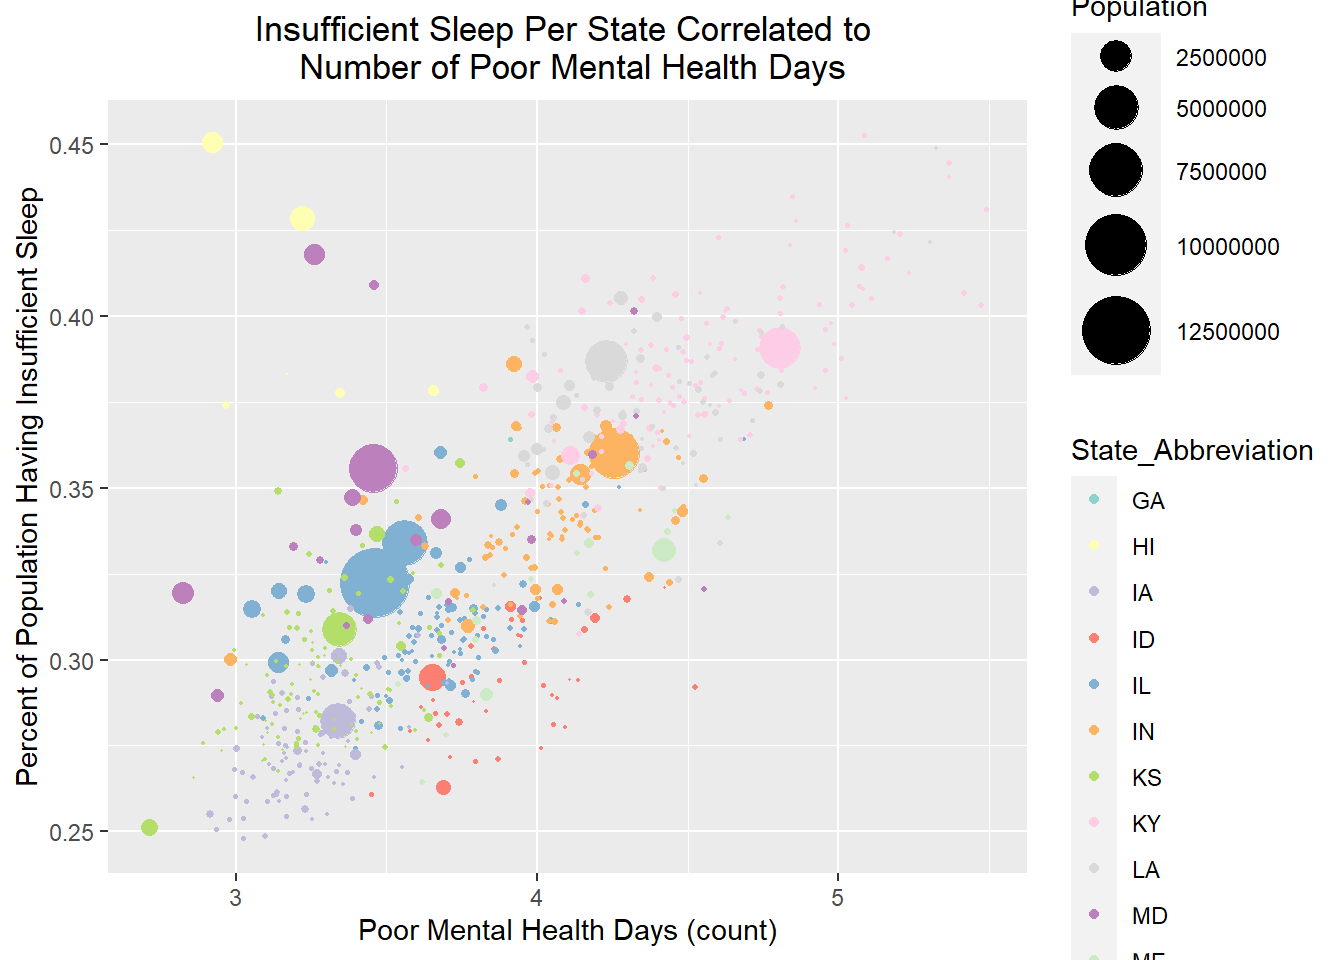
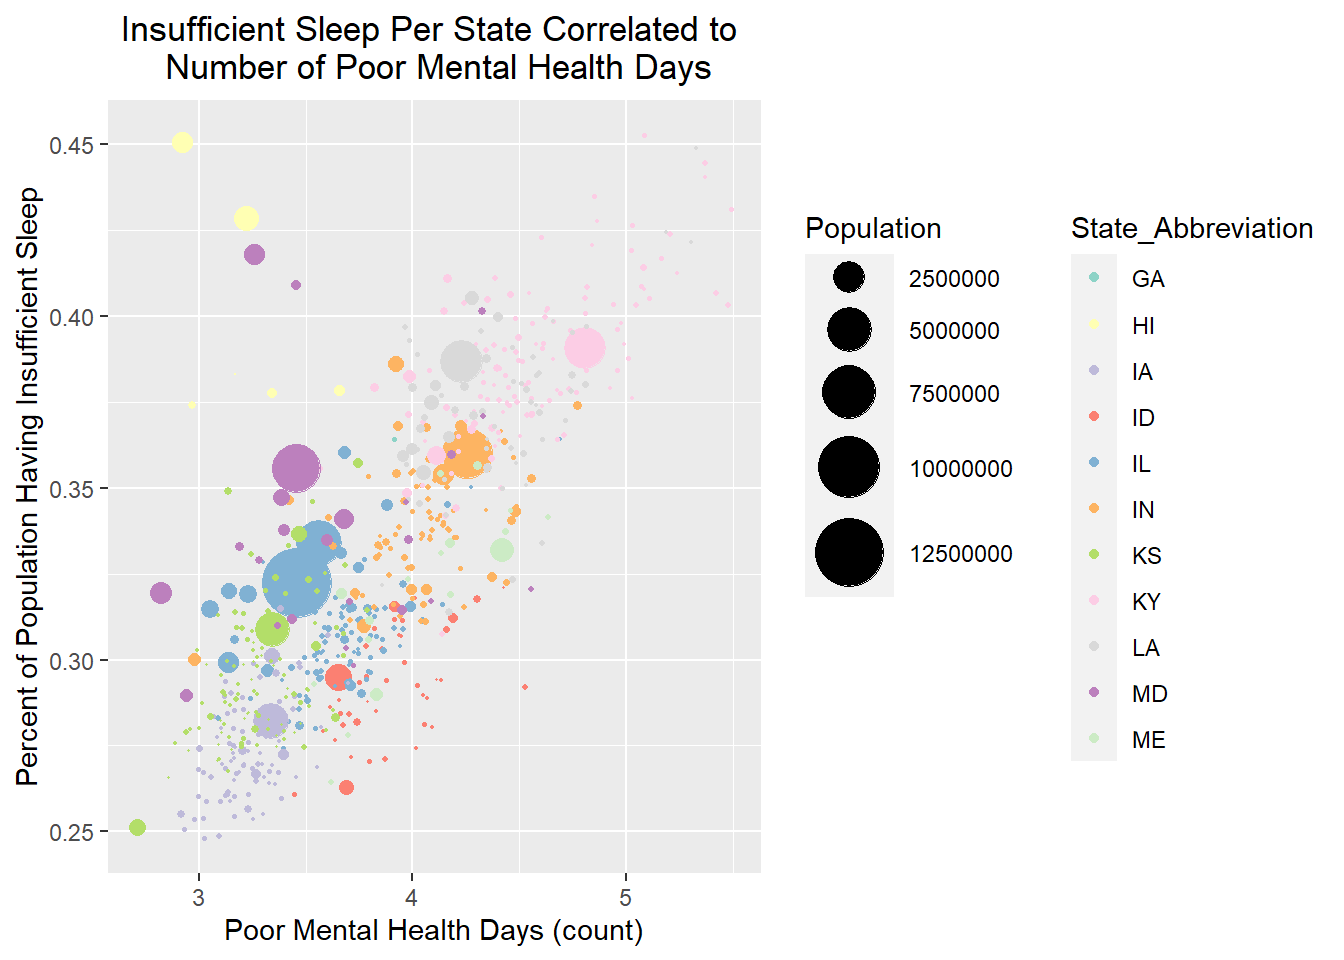
mmmm

diff --git a/public/project1_sofa/index.html b/public/project1_sofa/index.html
@@ -72,6 +72,8 @@
           <div class="panel-body">
             <div class="blogpost">
               
+
+
 <div id="data-wrangling-and-data-exploration" class="section level2">
 <h2>Data Wrangling and Data Exploration</h2>
 <div id="find-dataintroduction" class="section level3">
@@ -455,8 +457,8 @@ ggplot(statesAG, aes(PMHD, IS)) + geom_point(mapping = aes(color = State_Abbrevi
     ggtitle(&quot;Insufficient Sleep Per State Correlated to \n Number of Poor Mental Health Days&quot;) + 
     ylab(&quot;Percent of Population Having Insufficient Sleep&quot;) + 
     scale_x_continuous(&quot;Poor Mental Health Days (count)&quot;, breaks = c(3, 
-        4, 5)) + theme(plot.title = element_text(hjust = 0.5)) + 
-    scale_color_brewer(palette = &quot;Set3&quot;)</code></pre>
+        4, 5)) + scale_color_brewer(palette = &quot;Set3&quot;) + theme(plot.title = element_text(hjust = 0.5), 
+    legend.direction = &quot;vertical&quot;, legend.box = &quot;horizontal&quot;)</code></pre>
 <p><img src="/Project1_Sofa_files/figure-html/unnamed-chunk-19-2.png" width="672" style="display: block; margin: auto;" /></p>
 <pre class="r"><code>ggplot(statesMNJ, aes(PMHD, IS)) + geom_point(mapping = aes(color = State_Abbreviation), 
     ) + ggtitle(&quot;Insufficient Sleep Per State Correlated to \n Number of Poor Mental Health Days&quot;) + 

diff --git a/content/Project1_Sofa.html b/content/Project1_Sofa.html
@@ -5,6 +5,8 @@ output: pdf_document
 date: "2020-03-15"
 ---
 
+
+
 <div id="data-wrangling-and-data-exploration" class="section level2">
 <h2>Data Wrangling and Data Exploration</h2>
 <div id="find-dataintroduction" class="section level3">
@@ -388,8 +390,8 @@ ggplot(statesAG, aes(PMHD, IS)) + geom_point(mapping = aes(color = State_Abbrevi
     ggtitle(&quot;Insufficient Sleep Per State Correlated to \n Number of Poor Mental Health Days&quot;) + 
     ylab(&quot;Percent of Population Having Insufficient Sleep&quot;) + 
     scale_x_continuous(&quot;Poor Mental Health Days (count)&quot;, breaks = c(3, 
-        4, 5)) + theme(plot.title = element_text(hjust = 0.5)) + 
-    scale_color_brewer(palette = &quot;Set3&quot;)</code></pre>
+        4, 5)) + scale_color_brewer(palette = &quot;Set3&quot;) + theme(plot.title = element_text(hjust = 0.5), 
+    legend.direction = &quot;vertical&quot;, legend.box = &quot;horizontal&quot;)</code></pre>
 <p><img src="/Project1_Sofa_files/figure-html/unnamed-chunk-19-2.png" width="672" style="display: block; margin: auto;" /></p>
 <pre class="r"><code>ggplot(statesMNJ, aes(PMHD, IS)) + geom_point(mapping = aes(color = State_Abbreviation), 
     ) + ggtitle(&quot;Insufficient Sleep Per State Correlated to \n Number of Poor Mental Health Days&quot;) + 

diff --git a/content/Project2.html b/content/Project2.html
@@ -277,7 +277,7 @@ abline(v = 0.00865056, col = &quot;red&quot;)
 <p><img src="/Project2_files/figure-html/unnamed-chunk-7-1.png" width="80%" height="32%" style="display: block; margin: auto;" /></p>
 <pre class="r"><code>varP &lt;- mean(rand_dist &gt; 0.00865056 | rand_dist &lt; -0.00865056)
 varP</code></pre>
-<pre><code>[1] 0.002</code></pre>
+<pre><code>[1] 0.0012</code></pre>
 <pre class="r"><code># P-value equals 0.002, which is less than 0.05, so we can reject the null hypothes is
 that
 # populations that have a majority of the population being female or not have the same

diff --git a/public/project2/index.html b/public/project2/index.html
@@ -335,7 +335,7 @@ abline(v = 0.00865056, col = &quot;red&quot;)
 <p><img src="/Project2_files/figure-html/unnamed-chunk-7-1.png" width="80%" height="32%" style="display: block; margin: auto;" /></p>
 <pre class="r"><code>varP &lt;- mean(rand_dist &gt; 0.00865056 | rand_dist &lt; -0.00865056)
 varP</code></pre>
-<pre><code>[1] 0.002</code></pre>
+<pre><code>[1] 0.0012</code></pre>
 <pre class="r"><code># P-value equals 0.002, which is less than 0.05, so we can reject the null hypothes is
 that
 # populations that have a majority of the population being female or not have the same
